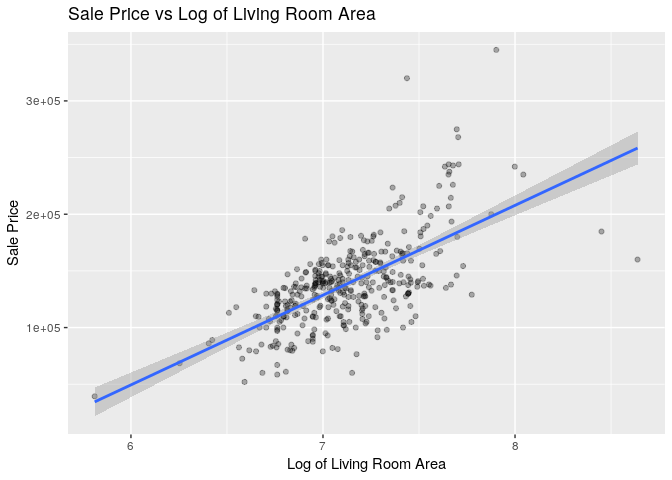
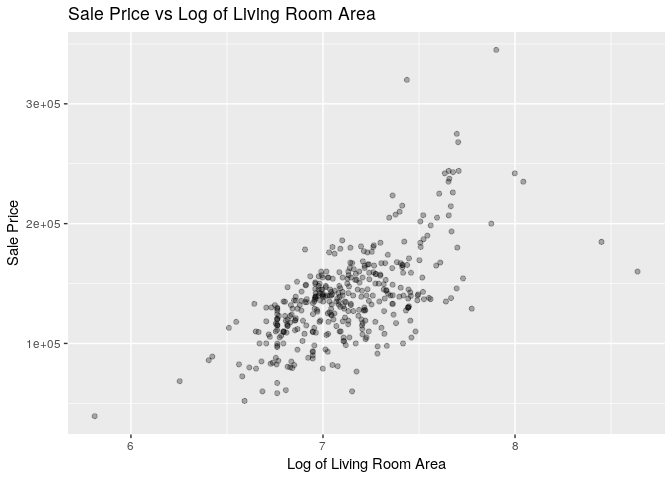
Add ESS test Remove trendlines from scatter plots refresh images fix typos

diff --git a/analysis/studies/question1.md b/analysis/studies/question1.md
@@ -17,7 +17,7 @@ and Brookside (`NAmes`, `Edwards` and `BrkSide`).
 ``` r
 # select data of interest
 train <- train %>% 
-  filter(Neighborhood == 'NAmes' | Neighborhood == 'Edwards' | Neighborhood == 'BrkSide')
+  filter(Neighborhood %in% c("Edwards", "BrkSide", "NAmes"))
 train$Neighborhood <- as.factor(train$Neighborhood)
 ```
 
@@ -67,7 +67,6 @@ in `GrLivArea` are pulling the regression line. A log transfrom on
 ``` r
 train %>% ggplot(aes(x = GrLivArea, y = SalePrice)) +
   geom_point(alpha = 0.3) +
-  geom_smooth(method = 'lm') + 
   labs(title = 'Sale Price vs Living Room Area', 
        y = 'Log of Sale Price', x = 'Living Room Area')
 ```
@@ -83,7 +82,6 @@ with an increase in varaince of `SalePrice`. A log transform of
 ``` r
 train %>% ggplot(aes(x = log(GrLivArea), y = SalePrice)) +
   geom_point(alpha = 0.3) +
-  geom_smooth(method = 'lm') + 
   labs(title = 'Sale Price vs Log of Living Room Area', 
        y = 'Sale Price', x = 'Log of Living Room Area')
 ```
@@ -98,8 +96,7 @@ should be investigated.
 
 ``` r
 train %>% ggplot(aes(x = log(GrLivArea), y = log(SalePrice))) +
-  geom_point(alpha = 0.3) +
-  geom_smooth(method = 'lm') + 
+  geom_point(alpha = 0.3) + 
   labs(title = 'Log of Sale Price vs Log of Living Room Area', 
        y = 'Log of Sale Price', x = 'Log of Living Room Area')
 ```
@@ -115,7 +112,6 @@ were not completed at the time of assessment.
 ``` r
 train %>% ggplot(aes(x = log(GrLivArea), y = log(SalePrice))) +
   geom_point(alpha = 0.3) +
-  geom_smooth(method = 'lm') + 
   labs(title = 'Log of Sale Price vs Log of Living Room Area', 
        y = 'Log of Sale Price', x = 'Log of Living Room Area') +
   geom_text(aes(label = ifelse((log(GrLivArea) > 7.75 & log(SalePrice) > 11) |
@@ -125,42 +121,35 @@ train %>% ggplot(aes(x = log(GrLivArea), y = log(SalePrice))) +
 
 ![](question1_files/figure-gfm/log-log-plot-labeled-1.png)<!-- -->
 
-Reploting without the influential values as little difference on the
-regression line. These points will be included in the regression
-analysis.
-
-``` r
-temp <- train %>% filter(SaleCondition != 'Partial')
-temp %>% ggplot(aes(x = log(GrLivArea), y = log(SalePrice))) +
-  geom_point(alpha = 0.3) +
-  geom_smooth(method = 'lm') + 
-  labs(title = 'Log of Sale Price vs Log of Living Room Area', 
-       y = 'Log of Sale Price', x = 'Log of Living Room Area')
-```
-
-![](question1_files/figure-gfm/repolt-without-partial-points-1.png)<!-- -->
-
 Scatter plot log of sale price vs log of living room area for each
-neighborhood. In each case, there is not sigificant evidence again the
+neighborhood. In each case, there is not sigificant evidence against the
 assumption of linearity.
 
 ``` r
 regplot.names <- train %>% filter(Neighborhood == 'NAmes') %>%
   ggplot(aes(x = log(GrLivArea), y = log(SalePrice))) +
   geom_point(alpha = 0.3) +
-  geom_smooth(method = 'lm') + 
+  ylim(10.5, 13) +
+  xlim(5.5, 9) +
+  geom_smooth(method = 'lm') +
   labs(subtitle = 'Northwest Ames', 
        y = 'Log of Sale Price', x = 'Log of Living Room Area')
+
 regplot.ed <- train %>% filter(Neighborhood == 'Edwards') %>%
   ggplot(aes(x = log(GrLivArea), y = log(SalePrice))) +
   geom_point(alpha = 0.3) +
-  geom_smooth(method = 'lm') + 
+  ylim(10.5, 13) +
+  xlim(5.5, 9) +
+  geom_smooth(method = 'lm') +
   labs(subtitle = 'Edwards', 
        y = 'Log of Sale Price', x = 'Log of Living Room Area')
+
 regplot.brk <- train %>% filter(Neighborhood == 'BrkSide') %>%
   ggplot(aes(x = log(GrLivArea), y = log(SalePrice))) +
   geom_point(alpha = 0.3) +
-  geom_smooth(method = 'lm') + 
+  ylim(10.5, 13) +
+  xlim(5.5, 9) +
+  geom_smooth(method = 'lm') +
   labs(subtitle = 'Brook Side', 
        y = 'Log of Sale Price', x = 'Log of Living Room Area')
 grid.arrange(regplot.names,regplot.ed,regplot.brk, nrow = 2,
@@ -168,6 +157,15 @@ grid.arrange(regplot.names,regplot.ed,regplot.brk, nrow = 2,
 ```
 
 ![](question1_files/figure-gfm/log-log-plot-by-N-1.png)<!-- -->
+
+``` r
+train %>% ggplot(aes(x = log(GrLivArea), y = log(SalePrice), color = Neighborhood)) +
+  geom_point(alpha = 0.3) + 
+  labs(subtitle = 'Brook Side', 
+       y = 'Log of Sale Price', x = 'Log of Living Room Area')
+```
+
+![](question1_files/figure-gfm/unnamed-chunk-2-1.png)<!-- -->
 
 ## Model
 
@@ -177,25 +175,65 @@ Based on the log-log plot above, the response will be modeled as
 
 where Edwards neighborhood is used for reference.
 
-### Parameter Estimation
+### Interaction Terms
 
-Estimate parameters in the model by fitting to the entire dataset.
+We will use an extra sums of square test to verify that the interaction
+terms are useful for the model. The ESS test provides strong evidence
+that the interaction terms are useful (p-value = 0.0002); thus, we will
+continue with the full model.
 
 ``` r
-model.formula = log(SalePrice) ~ log(GrLivArea) + 
-     Neighborhood_BrkSide + 
-     Neighborhood_NAmes +
-     log(GrLivArea) * Neighborhood_BrkSide + 
-     log(GrLivArea) * Neighborhood_NAmes
-
 # create dummy variables with Neighborhood == 'Edwards' as reference
-train <- get.dummies(train, "Neighborhood", 'Edwards')
+train <- get.dummies(train, "Neighborhood", reference = 'Edwards')
 ```
 
     ## [1] "Neighborhood_BrkSide"
     ## [1] "Neighborhood_NAmes"
 
 ``` r
+# full model formula
+model.formula = log(SalePrice) ~ log(GrLivArea) + 
+     Neighborhood_BrkSide + 
+     Neighborhood_NAmes +
+     log(GrLivArea) * Neighborhood_BrkSide + 
+     log(GrLivArea) * Neighborhood_NAmes
+# reduced model formula
+model.reduced.formula = log(SalePrice) ~ log(GrLivArea) + 
+     Neighborhood_BrkSide + 
+     Neighborhood_NAmes
+
+# fit models
+model <- lm(formula = model.formula, data = train)
+model.reduced <- lm(formula = model.reduced.formula, data = train)
+# ESS test on models
+anova(model.reduced, model)
+```
+
+    ## Analysis of Variance Table
+    ## 
+    ## Model 1: log(SalePrice) ~ log(GrLivArea) + Neighborhood_BrkSide + Neighborhood_NAmes
+    ## Model 2: log(SalePrice) ~ log(GrLivArea) + Neighborhood_BrkSide + Neighborhood_NAmes + 
+    ##     log(GrLivArea) * Neighborhood_BrkSide + log(GrLivArea) * 
+    ##     Neighborhood_NAmes
+    ##   Res.Df    RSS Df Sum of Sq     F    Pr(>F)    
+    ## 1    379 14.577                                 
+    ## 2    377 13.938  2   0.63951 8.649 0.0002125 ***
+    ## ---
+    ## Signif. codes:  0 '***' 0.001 '**' 0.01 '*' 0.05 '.' 0.1 ' ' 1
+
+### Parameter Estimation
+
+Estimate parameters in the model by fitting to the entire dataset to the
+chosen model.
+
+``` r
+# formula for model
+model.formula = log(SalePrice) ~ log(GrLivArea) + 
+     Neighborhood_BrkSide + 
+     Neighborhood_NAmes +
+     log(GrLivArea) * Neighborhood_BrkSide + 
+     log(GrLivArea) * Neighborhood_NAmes
+
 # model the mean response given equation above
 model <- lm(formula = model.formula, data = train)
 summary(model)
